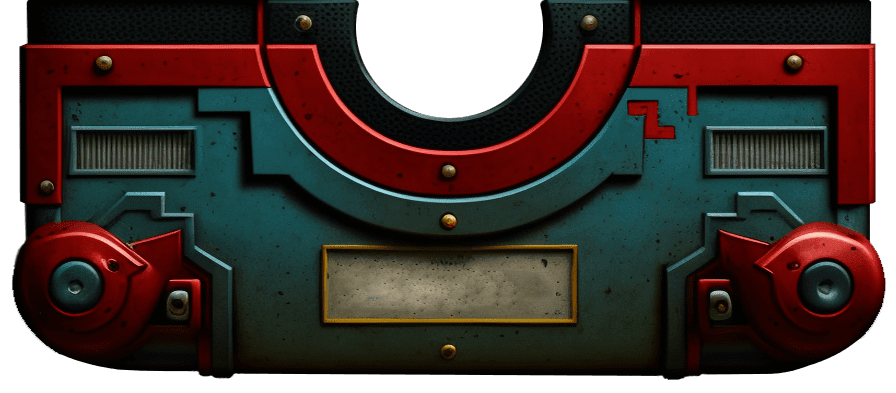
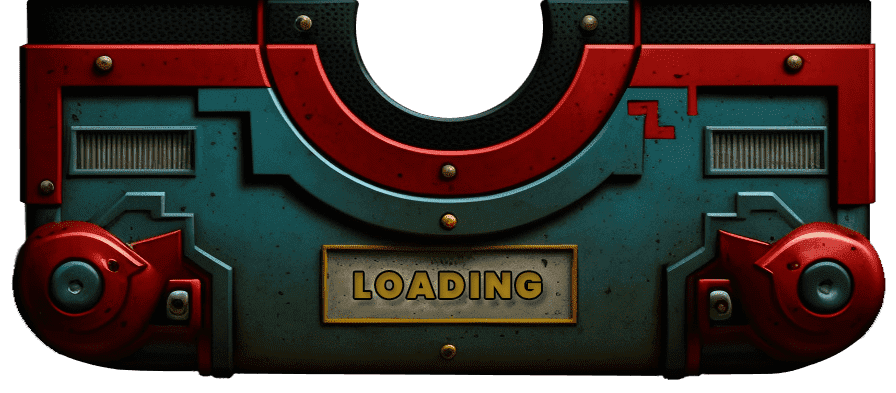
corrected stats

diff --git a/js/details.js b/js/details.js
@@ -43,7 +43,7 @@ function about() {
             <span onclick="about()" id="about" style="border-bottom: blue solid"><b>About</b></span>
             <span onclick="base(),baseContent()" id="base" style="color: grey">Base Stats</span>
             <span onclick="evolution(),evolutionContent()" id="evolution" style="color: grey">Evolution</span>
-            <span onclick="moves()" id="moves" style="color: grey">Moves</span>
+            <!-- <span onclick="moves()" id="moves" style="color: grey">Moves</span> -->
         </div>
         <div id="content_details_bottom"></div>
     `;
@@ -57,7 +57,7 @@ function base() {
         <span onclick="about()" id="about" style="color: grey">About</span>
         <span onclick="base(),baseContent()" id="base" style="border-bottom: blue solid"><b>Base Stats</b></span>
         <span onclick="evolution(),evolutionContent()" id="evolution" style="color: grey">Evolution</span>
-        <span onclick="moves()" id="moves" style="color: grey">Moves</span>
+        <!-- <span onclick="moves()" id="moves" style="color: grey">Moves</span> -->
     </div>
     <div id="content_details_bottom"></div>
 `;
@@ -70,23 +70,23 @@ function evolution() {
         <span onclick="about()" id="about" style="color: grey">About</span>
         <span onclick="base(),baseContent()" id="base" style="color: grey">Base Stats</span>
         <span onclick="evolution(),evolutionContent()" id="evolution" style="border-bottom: blue solid"><b>Evolution</b></span>
-        <span onclick="moves()" id="moves" style="color: grey">Moves</span>
+        <!-- <span onclick="moves()" id="moves" style="color: grey">Moves</span> -->
     </div>
     <div id="content_details_bottom"></div>
 `;
 }
 
 
-function moves() {
-    document.getElementById('details_bottom').innerHTML = /*html*/`
-    <div class="specs_navi">
-        <span onclick="about()" id="about" style="color: grey">About</span>
-        <span onclick="base(),baseContent()" id="base" style="color: grey">Base Stats</span>
-        <span onclick="evolution(),evolutionContent()" id="evolution" style="color: grey">Evolution</span>
-        <span onclick="moves()" id="moves" style="border-bottom: blue solid"><b>Moves</b></span>
-    </div>
-    <div id="content_details_bottom"></div>
-`;
-}
+// function moves() {
+//     document.getElementById('details_bottom').innerHTML = /*html*/`
+//     <div class="specs_navi">
+//         <span onclick="about()" id="about" style="color: grey">About</span>
+//         <span onclick="base(),baseContent()" id="base" style="color: grey">Base Stats</span>
+//         <span onclick="evolution(),evolutionContent()" id="evolution" style="color: grey">Evolution</span>
+//         <span onclick="moves()" id="moves" style="border-bottom: blue solid"><b>Moves</b></span>
+//     </div>
+//     <div id="content_details_bottom"></div>
+// `;
+// }
 
 

diff --git a/js/1_about.js b/js/1_about.js
@@ -67,32 +67,27 @@ function aboutContent() {
         </tr>
         <tr>
             <td style="color: grey">Height</td>
-            <td style="line-height: 90%;">${heights[selected[0]]} dm (decimetres)</td>
+            <td style="line-height: 90%;">${heights[selected[0]]/10}m / ${((heights[selected[0]]*3.937).toFixed(2)).replace('.',',')}inch</td>
         </tr>
         <tr>
             <td style="color: grey">Weight</td>
-            <td style="line-height: 90%;">${weights[selected[0]]} hg (hectograms)</td>
+            <td style="line-height: 90%;">${weights[selected[0]]/10}kg / ${((weights[selected[0]]/4.536).toFixed(2)).replace('.',',')}lb </td>
         </tr>
         <tr>
-            <td style="color: grey">Abilities&emsp;&emsp;</td>
-            <td style="line-height: 90%;">${capitalize(abilities1[selected[0]])}&emsp;${capitalize(abilities2[selected[0]])}&emsp;${capitalize(abilities3[selected[0]])}</td>
+            <td style="color: grey">Abilities</td>
+            <td style="line-height: 90%;">${capitalize(abilities1[selected[0]])}</td>
         </tr>
         <tr>
-            <td class="padding" style="line-height: 90%;"><b>Breeding&emsp;&emsp;</b></td>
-            <td></td>
-        </tr>
-        <tr>
-            <td style="color: grey">Gender</td>
-            <td></td>
-            <td></td>
+        <td style="color: grey">Hidden Abilities&emsp;&emsp;</td>
+        <td style="line-height: 90%;">${capitalize(abilities2[selected[0]])}&emsp;${capitalize(abilities3[selected[0]])}</td>
         </tr>
         <tr>
             <td style="color: grey">Egg Groups</td>
-            <td>${capitalize(eggGroup1[selected[0]])}</td>
+            <td>${capitalize(eggGroup1[selected[0]])}&emsp;${capitalize(eggGroup2[selected[0]])}</td>
         </tr>
         <tr>
-            <td style="color: grey">Egg Cycle</td>
-            <td>${capitalize(eggGroup2[selected[0]])}</td>
+            <td style="color: grey"></td>
+            <td></td>
         </tr>
     </table>
 `;

diff --git a/js/navigation.js b/js/navigation.js
@@ -11,26 +11,26 @@ function showDropDown() {
   else if (drop_down.style.display = 'flex') {
     drop_down.style.display = 'none';
   }
-  // if (drop_down_back.style.display == 'none') {
-  //   drop_down_back.style.display = 'flex';
-  // } 
-  // else if (drop_down_back.style.display === 'flex') {
-  //   drop_down_back.style.display = 'none';
-  // }
+  if (drop_down_back.style.display == 'none') {
+    drop_down_back.style.display = 'flex';
+  } 
+  else if (drop_down_back.style.display === 'flex') {
+    drop_down_back.style.display = 'none';
+  }
 }
 
 
 function naviInvert() {
-  document.getElementById('navi_btn_1').style = "filter: invert(1)";
-  document.getElementById('navi_btn_2').style = "filter: invert(1)";
+  // document.getElementById('navi_btn_1').style = "filter: invert(1)";
+  // document.getElementById('navi_btn_2').style = "filter: invert(1)";
   document.getElementById('navi').style.backgroundColor = "unset";
 }
 
 
 function goBack() {
   let details = document.getElementById('details');
-  document.getElementById('navi_btn_1').style = "filter: invert(0)";
-  document.getElementById('navi_btn_2').style = "filter: invert(0)";
+  // document.getElementById('navi_btn_1').style = "filter: invert(0)";
+  // document.getElementById('navi_btn_2').style = "filter: invert(0)";
   details.style.display = "none";
   document.getElementById('navi').style.backgroundColor = "white";
 }

diff --git a/css/style.css b/css/style.css
@@ -1004,16 +1004,18 @@ and -moz- (Firefox) to override default look) */
 }
 
 .bars {
-  height: 4px;
-  background-color: #69C26A;
+  height: 6px;
+  background: linear-gradient(to right, #187c0b, #5bd813);
   border-radius: 3px;
+  max-width: 505px;
 }
 
 .bar_background {
   background-color: rgb(238, 228, 228);
-  height: 4px;
+  height: 6px;
   border-radius: 3px;
   margin-left: 15px;
+  max-width: 505px;
 }
 
 .bar_width {
@@ -1185,15 +1187,18 @@ and -moz- (Firefox) to override default look) */
 }
 
 .evo_main {
-  margin-top: 20px;
+  margin-top: 0px;
+  display: flex;
+  flex-direction: column;
+  align-items: center;
 }
 
 .evo_box {
   font-weight: bold;
   letter-spacing: 1px;
-  text-indent: 20px;
+  max-width: 240px;
+  text-align: center;
   border-radius: 15px;
-  box-shadow: rgba(0, 0, 0, 0.4) 0px 2px 4px, rgba(0, 0, 0, 0.3) 0px 7px 13px -3px;
 }
 
 * {

diff --git a/index.html b/index.html
@@ -8,14 +8,14 @@
         <link rel="icon" href="./img/pokeball.png">
         <link rel="stylesheet" href="./css/style.css">
         <script src="./js/script.js"></script>
+        <script src="./js/loader.js"></script>
         <script src="./js/colors.js"></script>
         <script src="./js/details.js"></script>
         <script src="./js/navigation.js"></script>
         <script src="./js/1_about.js"></script>
         <script src="./js/2_base_stats.js"></script>
         <script src="./js/3_evolution.js"></script>
-        <script src="./js/4_moves.js"></script>
-        <script src="./js/loader.js"></script>
+
     </head>
 
     <body onload="render(); loader()">

diff --git a/scss/_evolution.scss b/scss/_evolution.scss
@@ -1,18 +1,22 @@
 .evo_main {
-  margin-top: 20px;
+  margin-top: 0px;
+  display: flex;
+  flex-direction: column;
+  align-items: center;
 }
 
 .evo_box {
   font-weight: bold;
   letter-spacing: 1px;
-  text-indent: 20px;
+  max-width: 240px;
+  text-align: center;
   // position: relative;
   // height: 30px;
   border-radius: 15px;
   // padding: 16px;
   // transition: all 225ms ease-in-out;
-  box-shadow: rgba(0, 0, 0, 0.4) 0px 2px 4px,
-    rgba(0, 0, 0, 0.3) 0px 7px 13px -3px,
+  // box-shadow: rgba(0, 0, 0, 0.4) 0px 2px 4px,
+  //   rgba(0, 0, 0, 0.3) 0px 7px 13px -3px,
     // rgba(0, 0, 0, 0.2) 0px -3px 0px inset;
     
   //   &:active {

diff --git a/js/3_evolution.js b/js/3_evolution.js
@@ -53,9 +53,15 @@ function evolutionContent() {
   document.getElementById('content_details_bottom').innerHTML = /*html*/`
     <div class="evo_main">
 
-        <div class="evo_box"><h2>${capitalize(pokeEvolve1)}</h2></div>
+        <div class="evo_box">
+          <h2>${capitalize(pokeEvolve1)}</h2>
+          <div id="evo_poke_img_1"></div>
+        </div>
 
-        <div class="evo_box"><h2>${capitalize(pokeEvolve2)}</h2></div>
+        <div class="evo_box">
+          <h2>${capitalize(pokeEvolve2)}</h2>
+          <div id="evo_poke_img_2"></div>
+        </div>
 
 
     </div>

diff --git a/scss/_details.scss b/scss/_details.scss
@@ -123,16 +123,18 @@
 }
 
 .bars {
-  height: 4px;
-  background-color: #69C26A;
+  height: 6px;
+  background: linear-gradient(to right, #187c0b, #5bd813);
   border-radius: 3px;
+  max-width: 505px;
 }
 
 .bar_background {
   background-color: rgb(238, 228, 228);
-  height: 4px;
+  height: 6px;
   border-radius: 3px;
   margin-left: 15px;
+  max-width: 505px;
 }
 
 .bar_width {

diff --git a/css/style.scss b/css/style.scss
@@ -7,7 +7,6 @@
 @import '../scss/details';
 @import '../scss/content';
 @import '../scss/navigation';
-
 @import '../scss/evolution';
 
 * {
